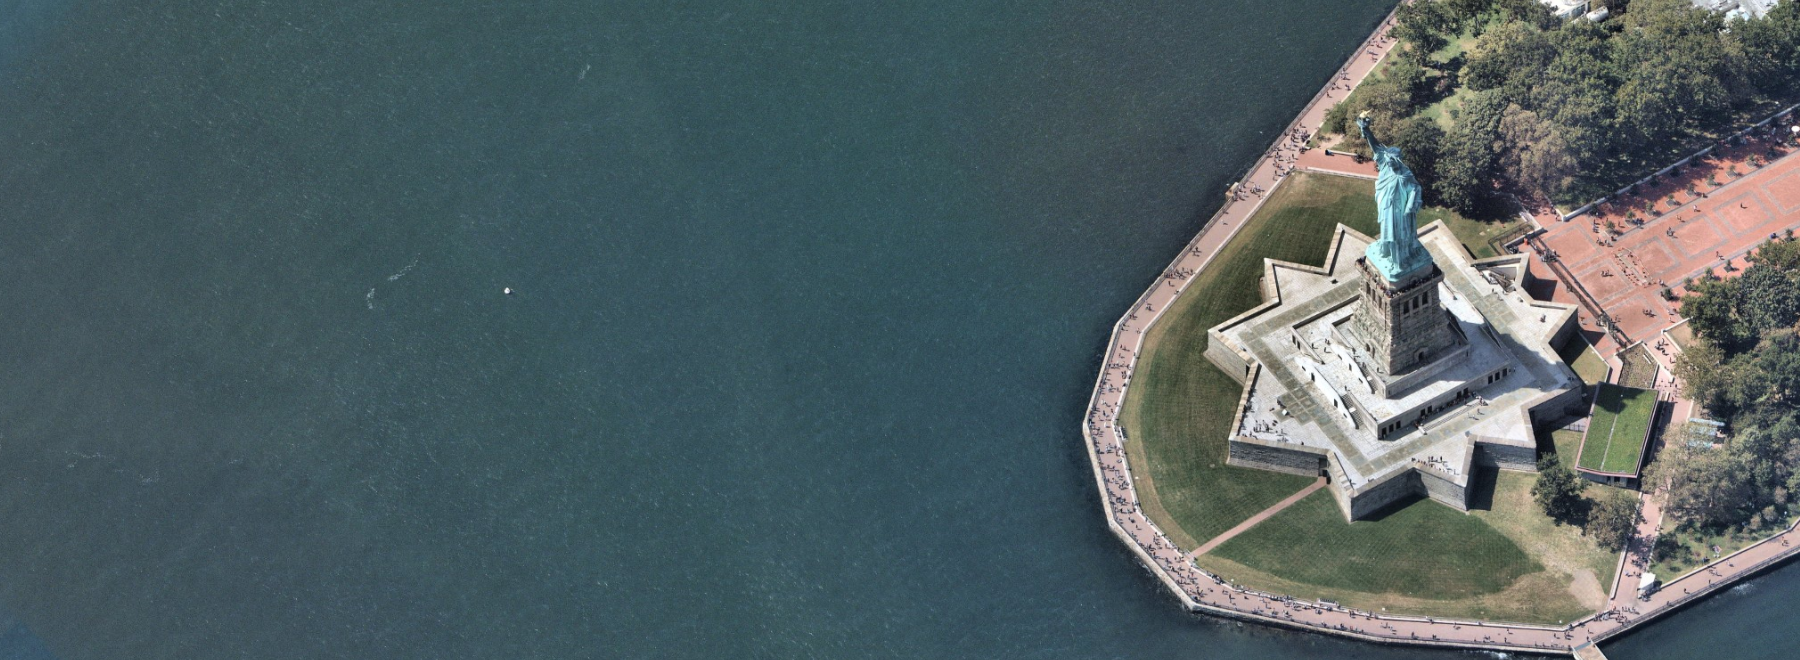
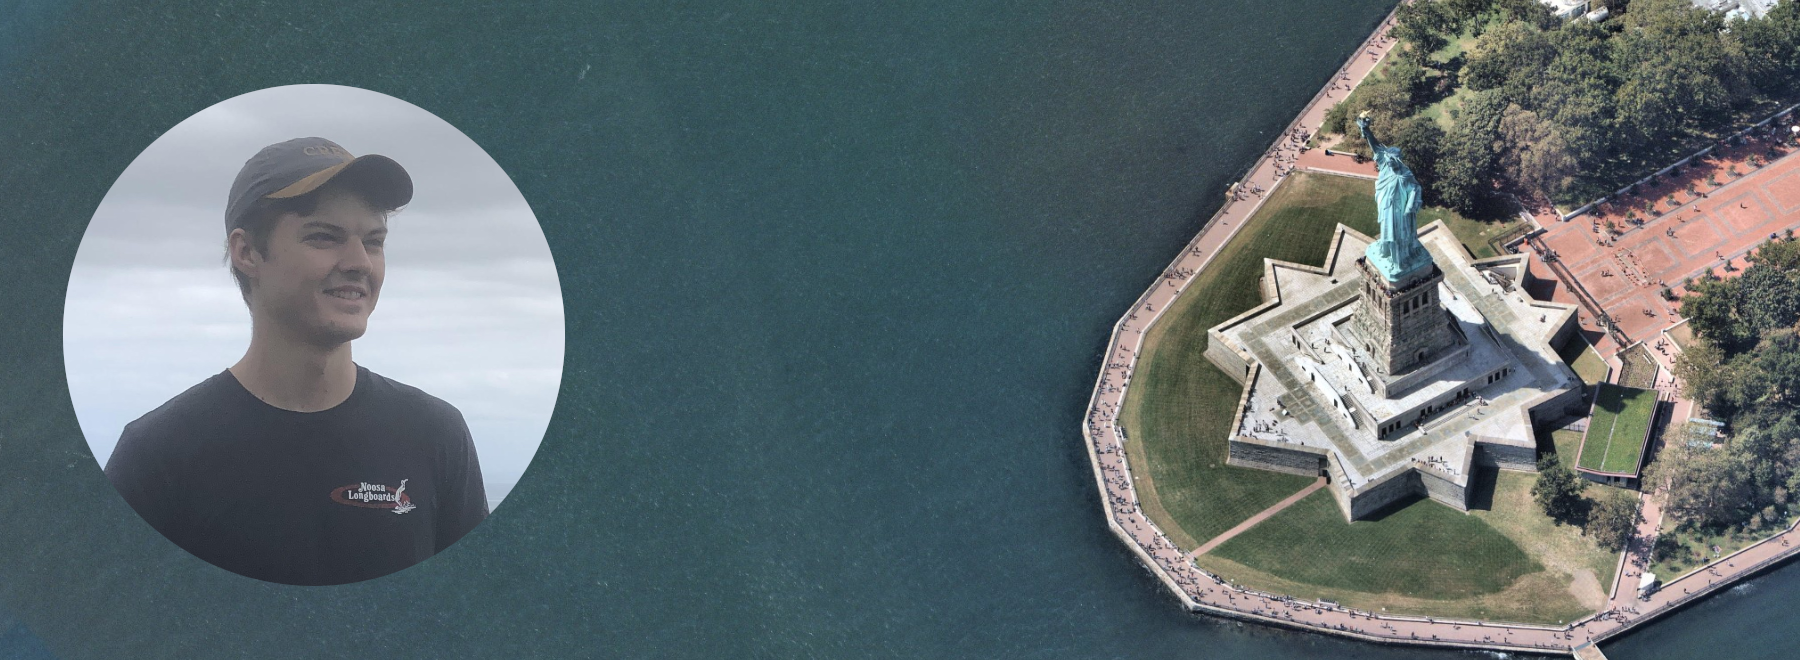
Add margins to the main content.

Changed region(s): [[0.0311, 0.1212, 0.3111, 0.9091]]

diff --git a/about.html b/about.html
@@ -3,59 +3,64 @@
 <head>
     <meta charset="utf-8">
     <meta name="author" content="Chris Cooper">
+    <meta name="viewport" content="width=device-width, initial-scale=1">
 
     <title>Cooper Info</title>
 
     <link href="css/style.css" rel="stylesheet">
 </head>
 <body>
-    <div class="cover-photo-box">
-        <img src="images/profile_picture.png" alt="A picture of me." width="300px">
-    </div>
+    <main>
+        <div class="margin-left"> </div>
+        <div class="main-content">
+            <div class="cover-photo-box"> </div>
 
-    <hr>
-    <h2 id="about">About</h2>
-    <p>
-        Chris Cooper is a software engineer living and working in Sydney, Australia.
-    </p>
+                <hr>
+                <h2 id="about">About</h2>
+                <p>
+                    Chris Cooper is a software engineer living and working in Sydney, Australia.
+                </p>
 
-    <hr>
-    <h2 id=CurriculumVitae>Curriculum Vitae</h2>
-    <h3>Experience</h3>
-    <h4>Graduate Software Engineer - Nearmap</h4>         
-        <ul>
-            <li>July 2020 - Present</li>
-            <li>Working to improve the accuracy of aerial photomaps and 3D reconstructions.</li>
-            <li>Developing camera modelling tools and cloud-based aerial photogrammetry applications.</li>
-        </ul>
-        <h4>Engineering Intern - Mission Systems</h4>
-        <ul>
-            <li>Dec 2019 - June 2020</li>
-            <li>Worked on developing simulation tools testing multirotor drone robotic systems.</li>
-        </ul>
-    <h3>Education</h3>
-        <h4>The University of Sydney</h4>
-            <ul>
-                <li>Bachelor of Engineering Honours (Mechatronic Engineering) (Space Engineering)</li>
-                <li>Honours Class 1 and the University Medal</li>
-            </ul>
-        <h4>The Scots College</h4>
-            <ul>
-                <li>Dux of the College</li>
-                <li>99.90 ATAR</li>
-            </ul>
-    <h3>Skills</h3>
-    <ul>
-        <li>Software engineering experience in C, C++ and Python.</li>
-        <li>Experience building cloud applications with AWS and DigitalOcean.</li>
-        <li>Robotics experience, including sensor fusion, planning and control.</li>
-        <li>Experience with PCB design and programming embedded systems.</li>
-    </ul>
-    <h3>Awards</h3>
-    <ul>
-        <li>Outstanding Proficiency Prize in Senior Mechatronic Engineering.</li>
-        <li>William and Jane Grahame Mechanical Engineering Scholarship.</li>
-        <li>Dean's Excellency Award (2017, 2018, 2019)</li>
-    </ul>
+                <hr>
+                <h2 id=CurriculumVitae>Curriculum Vitae</h2>
+                <h3>Experience</h3>
+                <h4>Graduate Software Engineer - Nearmap</h4>         
+                    <ul>
+                        <li>July 2020 - Present</li>
+                        <li>Working to improve the accuracy of aerial photomaps and 3D reconstructions.</li>
+                        <li>Developing camera modelling tools and cloud-based aerial photogrammetry applications.</li>
+                    </ul>
+                    <h4>Engineering Intern - Mission Systems</h4>
+                    <ul>
+                        <li>Dec 2019 - June 2020</li>
+                        <li>Worked on developing simulation tools testing multirotor drone robotic systems.</li>
+                    </ul>
+                <h3>Education</h3>
+                    <h4>The University of Sydney</h4>
+                        <ul>
+                            <li>Bachelor of Engineering Honours (Mechatronic Engineering) (Space Engineering)</li>
+                            <li>Honours Class 1 and the University Medal</li>
+                        </ul>
+                    <h4>The Scots College</h4>
+                        <ul>
+                            <li>Dux of the College</li>
+                            <li>99.90 ATAR</li>
+                        </ul>
+                <h3>Skills</h3>
+                <ul>
+                    <li>Software engineering experience in C, C++ and Python.</li>
+                    <li>Experience building cloud applications with AWS and DigitalOcean.</li>
+                    <li>Robotics experience, including sensor fusion, planning and control.</li>
+                    <li>Experience with PCB design and programming embedded systems.</li>
+                </ul>
+                <h3>Awards</h3>
+                <ul>
+                    <li>Outstanding Proficiency Prize in Senior Mechatronic Engineering.</li>
+                    <li>William and Jane Grahame Mechanical Engineering Scholarship.</li>
+                    <li>Dean's Excellency Award (2017, 2018, 2019)</li>
+                </ul>
+        </div>
+        <div class="margin-right"></div>
+    </main>
 </body>
 </html>

diff --git a/css/style.css b/css/style.css
@@ -1,7 +1,40 @@
+/* Mobile flexbox settings */
+main {
+    display: flex;
+    flex-wrap: wrap;
+    justify-content: space-between;
+}
+
+div {
+    flex-basis: 100%;
+    height: 100px;
+    margin-bottom: 0.5rem;
+}
+
+/* Desktop flexbox settings */
+@media (min-width: 600px) {
+    main {
+        flex-wrap: nowrap;
+    }
+
+    .main-content {
+        flex-basis: 50%;
+    }
+
+    .margin-left {
+        flex-basis: 25%;
+    }
+
+    .margin-right {
+        flex-basis: 35%;
+    }
+}
+
 .cover-photo-box {
-    width: 100%;
-    height: 300px;
     background-image: url('../images/cover_photo.png');
     background-repeat: no-repeat;
     background-size: contain;
+    width: 100%;
+    height: 0;
+    padding-bottom: 36.67%;
 }
